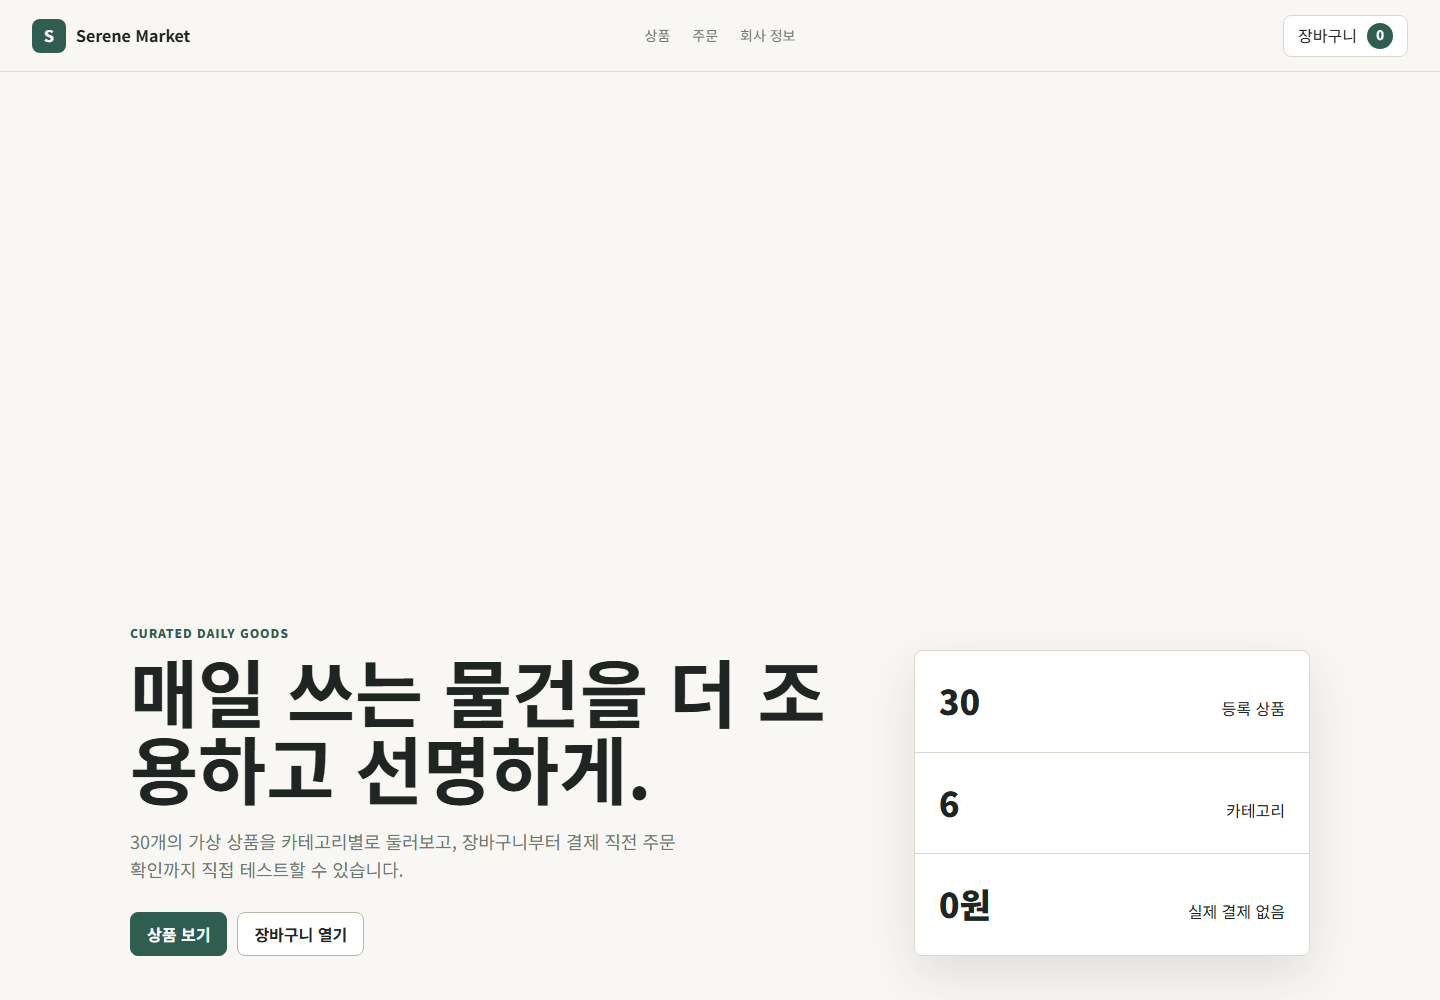
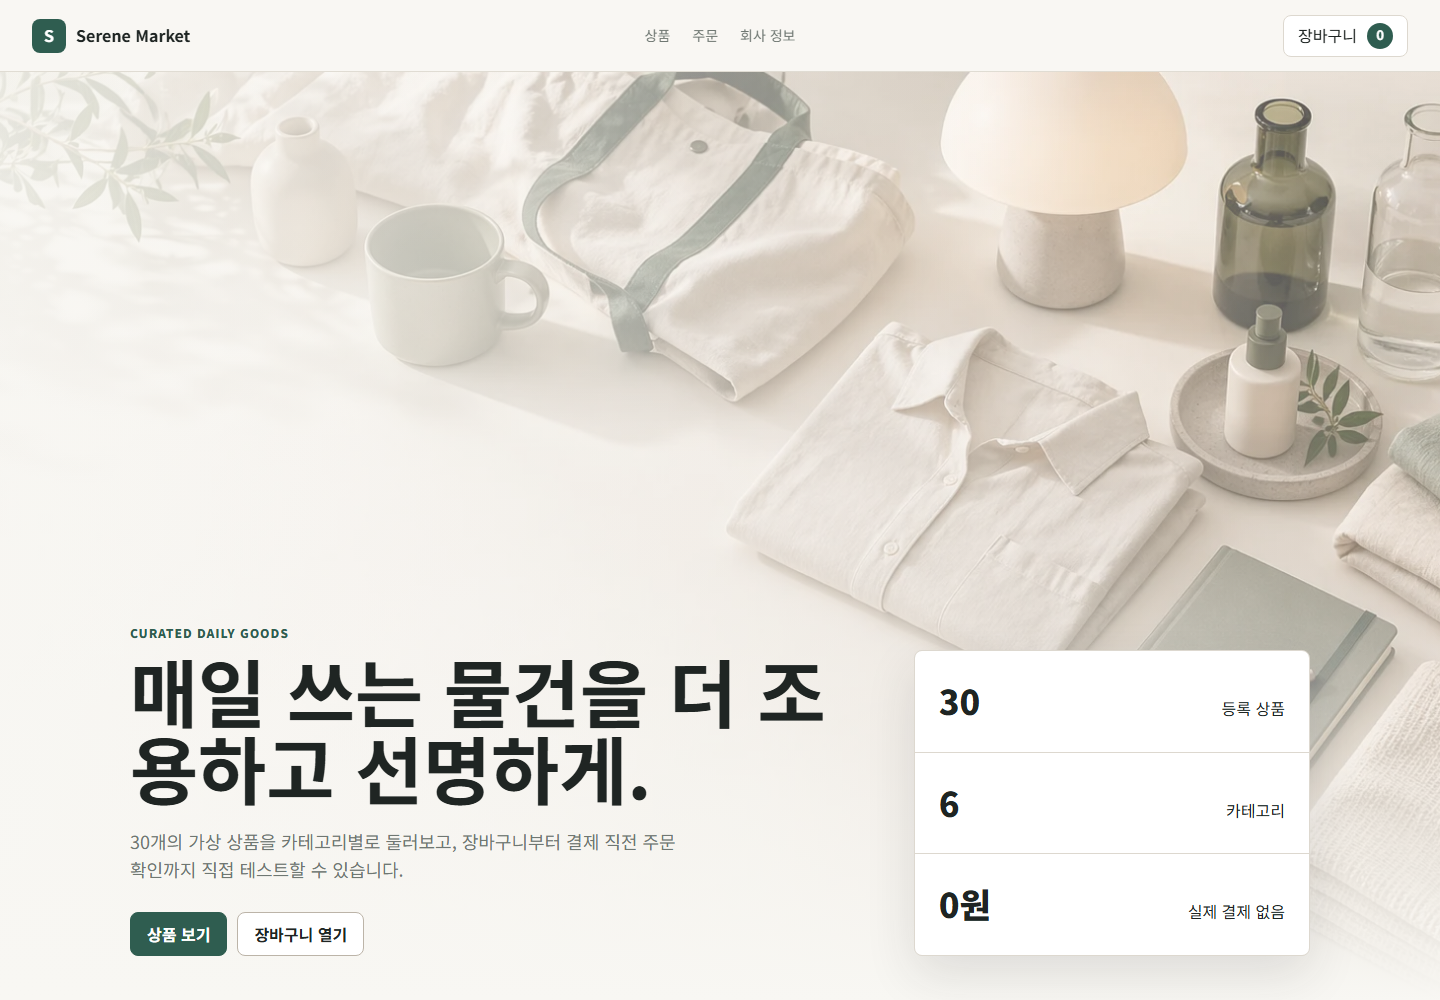
Add serene market hero background

diff --git a/public/portfolio/serene-market-shop/site/assets/styles.css b/public/portfolio/serene-market-shop/site/assets/styles.css
@@ -23,11 +23,27 @@ html {
 }
 
 body {
+  position: relative;
   margin: 0;
   background: var(--bg);
   color: var(--text);
   font-family: Inter, Pretendard, "Noto Sans KR", system-ui, -apple-system, BlinkMacSystemFont, "Segoe UI", sans-serif;
   line-height: 1.55;
+}
+
+body::before {
+  content: "";
+  position: absolute;
+  top: 72px;
+  right: 0;
+  left: 0;
+  height: calc(100vh - 72px);
+  min-height: 620px;
+  background:
+    linear-gradient(180deg, rgba(248, 247, 243, 0.1) 0%, rgba(248, 247, 243, 0.24) 52%, var(--bg) 100%),
+    linear-gradient(90deg, rgba(248, 247, 243, 0.9) 0%, rgba(248, 247, 243, 0.58) 42%, rgba(248, 247, 243, 0.18) 100%),
+    url("hero-lifestyle-bg.webp") center top / cover no-repeat;
+  pointer-events: none;
 }
 
 button,
@@ -113,6 +129,8 @@ a {
 }
 
 main {
+  position: relative;
+  z-index: 1;
   width: min(1180px, calc(100% - 32px));
   margin: 0 auto;
 }
@@ -704,6 +722,16 @@ select:focus {
     grid-template-columns: 1fr;
     min-height: auto;
     padding: 54px 0 34px;
+  }
+
+  body::before {
+    top: 64px;
+    height: 520px;
+    min-height: 0;
+    background:
+      linear-gradient(180deg, rgba(248, 247, 243, 0.24) 0%, rgba(248, 247, 243, 0.58) 48%, var(--bg) 100%),
+      linear-gradient(90deg, rgba(248, 247, 243, 0.76) 0%, rgba(248, 247, 243, 0.32) 100%),
+      url("hero-lifestyle-bg.webp") center top / cover no-repeat;
   }
 
   .product-grid {
